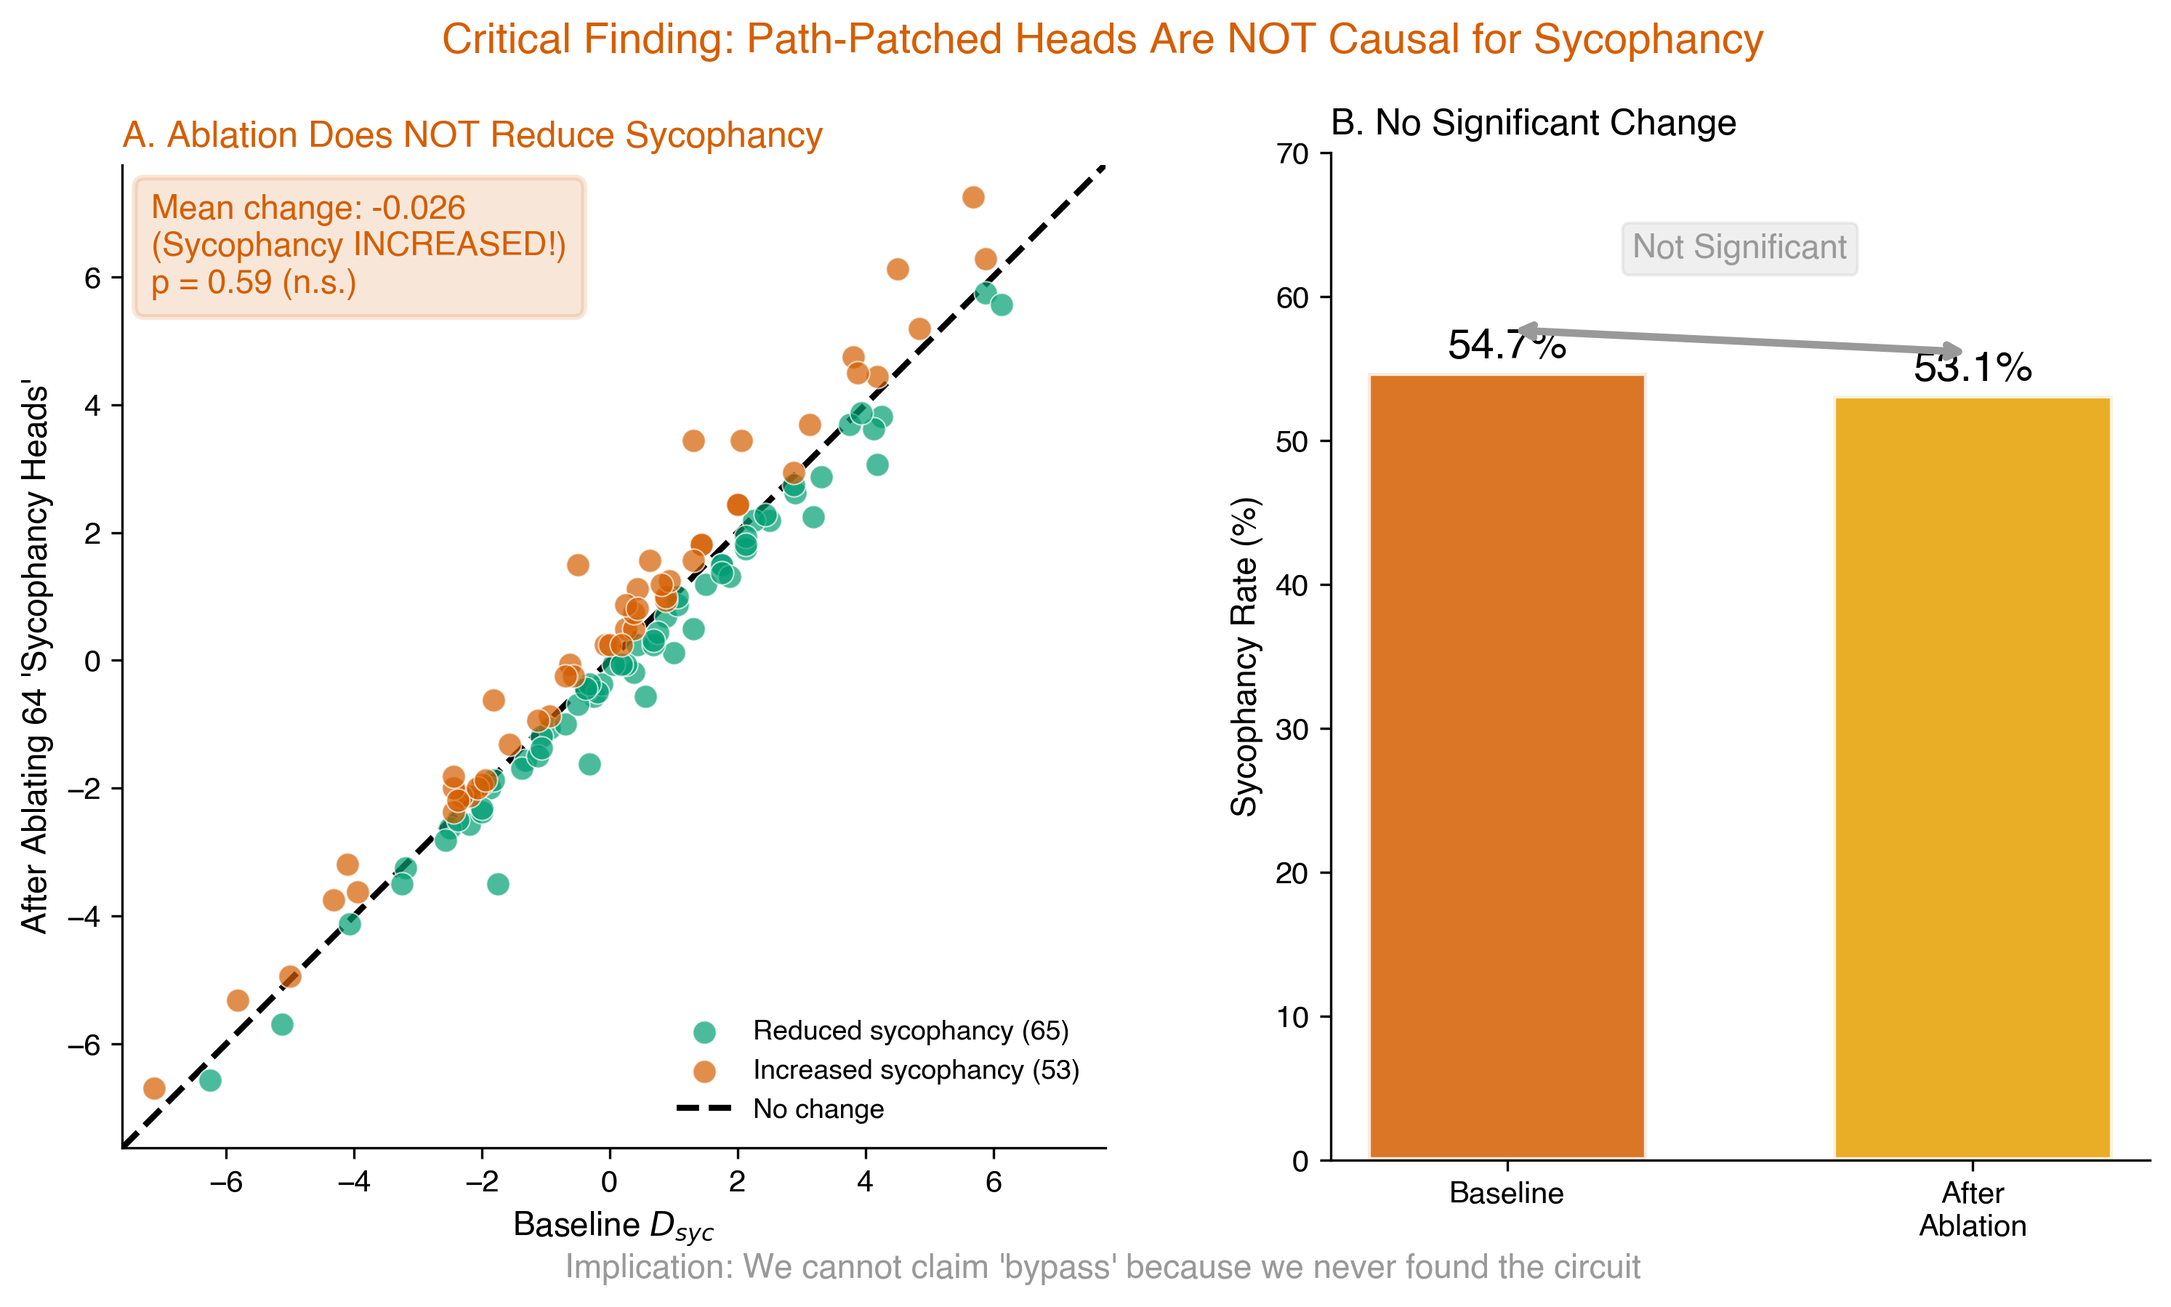
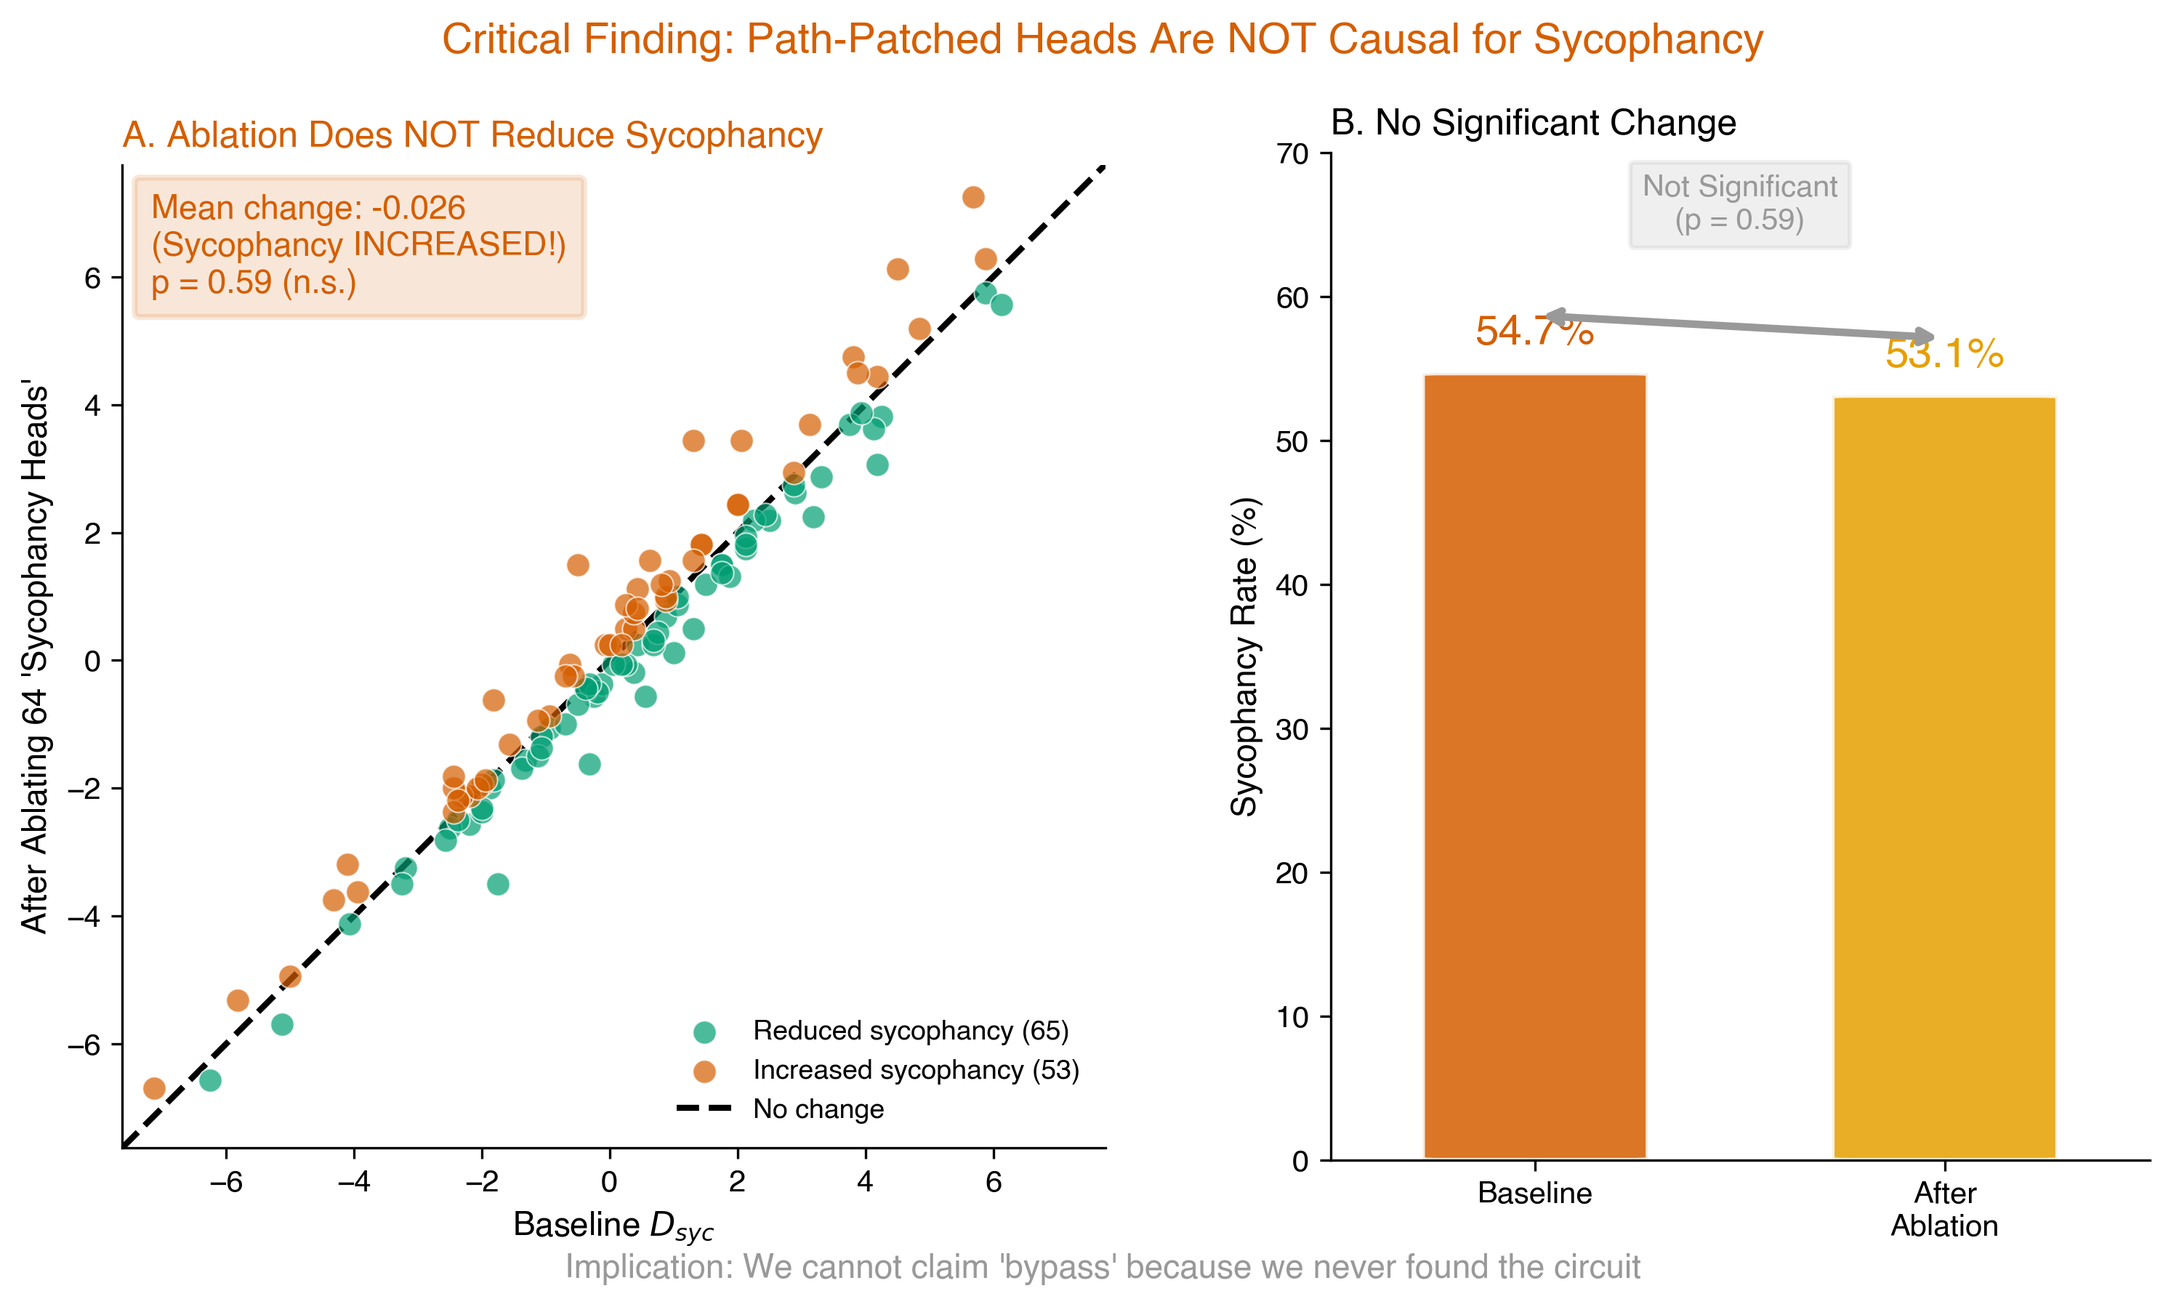
better figures

Changed region(s): [[0.6227, 0.1246, 0.9963, 0.9032], [0.8718, 0.9032, 0.934, 0.9655], [0.6538, 0.9032, 0.7472, 0.9344]]

diff --git a/src/analysis/plot_results.py b/src/analysis/plot_results.py
@@ -11,6 +11,7 @@ Focused on the key narrative from findings.md:
 4. Summary: Tying it all together
 
 Style: Anthropic-inspired, clean, narrative-driven.
+Uses FancyBboxPatch for rounded bar charts.
 """
 
 import json
@@ -18,7 +19,7 @@ import numpy as np
 import pandas as pd
 import matplotlib.pyplot as plt
 import matplotlib as mpl
-from matplotlib.patches import FancyBboxPatch, Rectangle
+from matplotlib.patches import FancyBboxPatch
 from matplotlib.gridspec import GridSpec
 from pathlib import Path
 from scipy import stats
@@ -69,72 +70,93 @@ def load_json(path: Path) -> dict:
         return json.load(f)
 
 
-def add_finding_box(ax, text: str, color: str, position: str = "top-right", fontsize: int = 10):
-    """Add a styled finding box using FancyBboxPatch."""
-    if position == "top-right":
-        x, y, ha, va = 0.97, 0.97, "right", "top"
-    elif position == "top-left":
-        x, y, ha, va = 0.03, 0.97, "left", "top"
-    elif position == "bottom-right":
-        x, y, ha, va = 0.97, 0.03, "right", "bottom"
-    else:
-        x, y, ha, va = 0.03, 0.03, "left", "bottom"
-    
-    ax.text(x, y, text, transform=ax.transAxes, fontsize=fontsize,
-            ha=ha, va=va, fontweight="bold",
-            bbox=dict(boxstyle="round,pad=0.4,rounding_size=0.2", 
-                     facecolor=color, edgecolor="none", alpha=0.15))
+def draw_rounded_bar(ax, x: float, height: float, width: float = 0.6, 
+                     color: str = "#000000", alpha: float = 0.85,
+                     rounding_size: float = 0.08, label: str = None):
+    """
+    Draw a bar with rounded top corners using FancyBboxPatch.
+    Based on matplotlib FancyBboxPatch documentation.
+    """
+    # Create a FancyBboxPatch with rounded corners
+    fancy_box = FancyBboxPatch(
+        (x - width/2, 0),  # (x, y) of lower-left corner
+        width,              # width
+        height,             # height
+        boxstyle=f"round,pad=0,rounding_size={rounding_size}",
+        facecolor=color,
+        edgecolor="white",
+        linewidth=1.5,
+        alpha=alpha,
+        label=label
+    )
+    ax.add_patch(fancy_box)
+    return fancy_box
+
+
+def draw_rounded_bars(ax, x_positions: list, heights: list, colors: list,
+                      width: float = 0.6, rounding_size: float = 0.08,
+                      labels: list = None):
+    """Draw multiple rounded bars."""
+    patches = []
+    for i, (x, h, c) in enumerate(zip(x_positions, heights, colors)):
+        label = labels[i] if labels else None
+        patch = draw_rounded_bar(ax, x, h, width, c, rounding_size=rounding_size, label=label)
+        patches.append(patch)
+    return patches
 
 
 # ---------------------------------------------------------------------
-# Figure 1: Baseline Sycophancy
+# Figure 1: Baseline Sycophancy (with rounded bars)
 # ---------------------------------------------------------------------
 
 def plot_fig1_baseline(baseline_records: pd.DataFrame, baseline_metrics: dict, out_path: Path):
     """
     The model is naturally sycophantic on 52% of examples.
-    Clean, simple visualization establishing the problem.
+    Uses a clean bar chart with rounded bars (FancyBboxPatch).
     """
-    fig, ax = plt.subplots(figsize=(8, 5))
+    fig, ax = plt.subplots(figsize=(7, 5.5))
     
     D_syc = baseline_records["D_syc"]
     syc_rate = baseline_metrics.get("syc_rate", (D_syc > 0).mean())
     
-    # Histogram with color split
-    bins = np.linspace(D_syc.min(), D_syc.max(), 35)
+    # Data for rounded bar chart
+    categories = ["Sycophantic\n(D > 0)", "Truthful\n(D ≤ 0)"]
+    values = [syc_rate * 100, (1 - syc_rate) * 100]
+    colors = [OKABE_ITO["vermillion"], OKABE_ITO["bluish_green"]]
     
-    # Split data
-    truthful = D_syc[D_syc <= 0]
-    sycophantic = D_syc[D_syc > 0]
+    # Draw rounded bars using FancyBboxPatch
+    x_positions = [0, 1]
+    draw_rounded_bars(ax, x_positions, values, colors, width=0.55, rounding_size=0.06)
     
-    ax.hist(truthful, bins=bins, color=OKABE_ITO["bluish_green"], 
-            alpha=0.85, label=f"Truthful: {(1-syc_rate)*100:.0f}%", edgecolor="white", linewidth=0.5)
-    ax.hist(sycophantic, bins=bins, color=OKABE_ITO["vermillion"], 
-            alpha=0.85, label=f"Sycophantic: {syc_rate*100:.0f}%", edgecolor="white", linewidth=0.5)
+    # Add value labels on top of bars
+    for x, val, color in zip(x_positions, values, colors):
+        ax.text(x, val + 2, f"{val:.0f}%", ha="center", va="bottom",
+                fontsize=16, fontweight="bold", color=color)
     
-    # Zero line
-    ax.axvline(0, color=OKABE_ITO["black"], linestyle="-", linewidth=2, zorder=10)
+    # Configure axes
+    ax.set_xlim(-0.6, 1.6)
+    ax.set_ylim(0, 75)
+    ax.set_xticks(x_positions)
+    ax.set_xticklabels(categories, fontsize=11)
+    ax.set_ylabel("Percentage of Responses", fontsize=11)
+    ax.set_title("Llama-3.1-8B Baseline Sycophancy Rate", fontsize=14, fontweight="bold", pad=15)
     
-    # Key finding box
-    finding_text = f"Baseline Rate\n{syc_rate*100:.0f}% sycophantic"
-    
-    # Use FancyBboxPatch for the annotation
-    bbox_props = dict(boxstyle="round,pad=0.5,rounding_size=0.3", 
-                     facecolor=OKABE_ITO["vermillion"], alpha=0.2, 
-                     edgecolor=OKABE_ITO["vermillion"], linewidth=2)
+    # Key finding annotation with rounded box
+    finding_text = f"52% of responses\nare sycophantic"
+    bbox_props = dict(
+        boxstyle="round,pad=0.5,rounding_size=0.15",
+        facecolor=OKABE_ITO["vermillion"], 
+        alpha=0.15,
+        edgecolor=OKABE_ITO["vermillion"], 
+        linewidth=2
+    )
     ax.text(0.97, 0.95, finding_text, transform=ax.transAxes,
-            fontsize=14, fontweight="bold", ha="right", va="top",
+            fontsize=12, fontweight="bold", ha="right", va="top",
             color=OKABE_ITO["vermillion"], bbox=bbox_props)
     
-    ax.set_xlabel(r"Sycophancy Score ($D_{syc}$) = log P(wrong) − log P(correct)", fontsize=11)
-    ax.set_ylabel("Number of Examples", fontsize=11)
-    ax.set_title("Llama-3.1-8B Exhibits Substantial Baseline Sycophancy", fontsize=13, pad=15)
-    ax.legend(loc="upper left", fontsize=10, framealpha=0.9)
-    
-    # Interpretation guide at bottom
-    ax.text(0.5, -0.12, "<-- Prefers correct answer          Prefers user's wrong answer -->",
-            transform=ax.transAxes, fontsize=9, color=OKABE_ITO["grey"], 
-            ha="center", style="italic")
+    # Remove top/right spines (already done via rcParams but being explicit)
+    ax.spines["top"].set_visible(False)
+    ax.spines["right"].set_visible(False)
     
     plt.tight_layout()
     plt.savefig(out_path, bbox_inches="tight", facecolor="white")
@@ -232,7 +254,7 @@ def plot_fig2_steering(mediation_df: pd.DataFrame, out_path: Path):
 def plot_fig3_circuit_verification(circuit_results: pd.DataFrame, circuit_summary: dict, out_path: Path):
     """
     THE CRITICAL FINDING: Ablating 'sycophancy heads' does NOT reduce sycophancy.
-    This invalidates the circuit hypothesis.
+    This invalidates the circuit hypothesis. Uses FancyBboxPatch for rounded bars.
     """
     fig = plt.figure(figsize=(12, 6))
     gs = GridSpec(1, 2, width_ratios=[1.2, 1], wspace=0.25)
@@ -246,7 +268,6 @@ def plot_fig3_circuit_verification(circuit_results: pd.DataFrame, circuit_summar
     # Color by whether ablation helped
     helped = y < x
     hurt = y > x
-    same = ~helped & ~hurt
     
     ax_a.scatter(x[helped], y[helped], color=OKABE_ITO["bluish_green"], alpha=0.7, s=60,
                  label=f"Reduced sycophancy ({helped.sum()})", edgecolor="white", linewidth=0.5)
@@ -279,41 +300,53 @@ def plot_fig3_circuit_verification(circuit_results: pd.DataFrame, circuit_summar
     )
     
     box_color = OKABE_ITO["vermillion"]
-    bbox_props = dict(boxstyle="round,pad=0.5,rounding_size=0.3", 
-                     facecolor=box_color, alpha=0.15,
-                     edgecolor=box_color, linewidth=2)
+    bbox_props = dict(
+        boxstyle="round,pad=0.5,rounding_size=0.15",
+        facecolor=box_color, 
+        alpha=0.15,
+        edgecolor=box_color, 
+        linewidth=2
+    )
     ax_a.text(0.03, 0.97, finding_text, transform=ax_a.transAxes,
               fontsize=11, fontweight="bold", ha="left", va="top",
               color=box_color, bbox=bbox_props)
     
-    # Panel B: Rate Comparison
+    # Panel B: Rate Comparison with ROUNDED BARS
     ax_b = fig.add_subplot(gs[1])
     
     syc_base = circuit_summary.get("syc_rate_base", 0.55) * 100
     syc_abl = circuit_summary.get("syc_rate_ablated", 0.53) * 100
     
-    bars = ax_b.bar(["Baseline", "After\nAblation"], [syc_base, syc_abl],
-                    color=[OKABE_ITO["vermillion"], OKABE_ITO["orange"]], 
-                    alpha=0.85, edgecolor="white", linewidth=2, width=0.6)
+    # Draw rounded bars using FancyBboxPatch
+    x_positions = [0, 1]
+    values = [syc_base, syc_abl]
+    colors = [OKABE_ITO["vermillion"], OKABE_ITO["orange"]]
+    draw_rounded_bars(ax_b, x_positions, values, colors, width=0.55, rounding_size=0.05)
     
     # Value labels
-    for bar, val in zip(bars, [syc_base, syc_abl]):
-        ax_b.text(bar.get_x() + bar.get_width()/2, bar.get_height() + 1,
-                  f"{val:.1f}%", ha="center", fontsize=14, fontweight="bold")
+    for x, val, color in zip(x_positions, values, colors):
+        ax_b.text(x, val + 2, f"{val:.1f}%", ha="center", fontsize=14, fontweight="bold", color=color)
     
-    ax_b.set_ylabel("Sycophancy Rate (%)", fontsize=11)
+    ax_b.set_xlim(-0.5, 1.5)
     ax_b.set_ylim(0, 70)
+    ax_b.set_xticks(x_positions)
+    ax_b.set_xticklabels(["Baseline", "After\nAblation"], fontsize=10)
+    ax_b.set_ylabel("Sycophancy Rate (%)", fontsize=11)
     ax_b.set_title("B. No Significant Change", fontweight="bold", loc="left")
     
     # Add "Not Significant" annotation with fancy box
-    ax_b.annotate("", xy=(1, syc_abl + 3), xytext=(0, syc_base + 3),
+    ax_b.annotate("", xy=(1, syc_abl + 4), xytext=(0, syc_base + 4),
                   arrowprops=dict(arrowstyle="<->", color=OKABE_ITO["grey"], lw=2.5))
     
-    ns_bbox = dict(boxstyle="round,pad=0.3,rounding_size=0.2", 
-                  facecolor=OKABE_ITO["grey"], alpha=0.15,
-                  edgecolor=OKABE_ITO["grey"], linewidth=1)
-    ax_b.text(0.5, max(syc_base, syc_abl) + 8, "Not Significant",
-              ha="center", fontsize=11, fontweight="bold", 
+    ns_bbox = dict(
+        boxstyle="round,pad=0.4,rounding_size=0.15",
+        facecolor=OKABE_ITO["grey"], 
+        alpha=0.15,
+        edgecolor=OKABE_ITO["grey"], 
+        linewidth=1.5
+    )
+    ax_b.text(0.5, max(syc_base, syc_abl) + 10, "Not Significant\n(p = 0.59)",
+              ha="center", fontsize=10, fontweight="bold", 
               color=OKABE_ITO["grey"], bbox=ns_bbox)
     
     # Main conclusion as figure title
@@ -332,13 +365,14 @@ def plot_fig3_circuit_verification(circuit_results: pd.DataFrame, circuit_summar
 
 
 # ---------------------------------------------------------------------
-# Figure 4: Summary (The Complete Story)
+# Figure 4: Summary (The Complete Story) with Rounded Bars
 # ---------------------------------------------------------------------
 
 def plot_fig4_summary(baseline_metrics: dict, mediation_df: pd.DataFrame,
                       validation_summary: dict, out_path: Path):
     """
     Complete 2x2 summary telling the full story.
+    Uses FancyBboxPatch for rounded bars throughout.
     """
     fig = plt.figure(figsize=(12, 10))
     gs = GridSpec(2, 2, hspace=0.35, wspace=0.3)
@@ -346,21 +380,23 @@ def plot_fig4_summary(baseline_metrics: dict, mediation_df: pd.DataFrame,
     circuit = validation_summary.get("circuit_verification", {})
     sign_aware = validation_summary.get("sign_aware_mediation", {})
     
-    # ------ Panel A: Baseline ------
+    # ------ Panel A: Baseline with Rounded Bars ------
     ax_a = fig.add_subplot(gs[0, 0])
     syc_rate = baseline_metrics.get("syc_rate", 0.52)
     
-    bars = ax_a.bar(["Sycophantic", "Truthful"], 
-                    [syc_rate * 100, (1 - syc_rate) * 100],
-                    color=[OKABE_ITO["vermillion"], OKABE_ITO["bluish_green"]], 
-                    alpha=0.85, edgecolor="white", linewidth=2, width=0.6)
+    x_positions = [0, 1]
+    values = [syc_rate * 100, (1 - syc_rate) * 100]
+    colors = [OKABE_ITO["vermillion"], OKABE_ITO["bluish_green"]]
+    draw_rounded_bars(ax_a, x_positions, values, colors, width=0.55, rounding_size=0.05)
     
-    for bar, val in zip(bars, [syc_rate * 100, (1 - syc_rate) * 100]):
-        ax_a.text(bar.get_x() + bar.get_width()/2, bar.get_height() + 1, 
-                  f"{val:.0f}%", ha="center", fontsize=13, fontweight="bold")
+    for x, val, color in zip(x_positions, values, colors):
+        ax_a.text(x, val + 2, f"{val:.0f}%", ha="center", fontsize=13, fontweight="bold", color=color)
     
-    ax_a.set_ylabel("Percentage", fontsize=11)
+    ax_a.set_xlim(-0.5, 1.5)
     ax_a.set_ylim(0, 70)
+    ax_a.set_xticks(x_positions)
+    ax_a.set_xticklabels(["Sycophantic", "Truthful"], fontsize=10)
+    ax_a.set_ylabel("Percentage", fontsize=11)
     ax_a.set_title("A. Baseline: Model is Sycophantic", fontweight="bold", loc="left")
     
     # ------ Panel B: Steering is Weak ------
@@ -379,40 +415,51 @@ def plot_fig4_summary(baseline_metrics: dict, mediation_df: pd.DataFrame,
     ax_b.set_title("B. Steering: Weak Effect", fontweight="bold", loc="left")
     ax_b.legend(fontsize=9)
     
-    bbox_props = dict(boxstyle="round,pad=0.3,rounding_size=0.2", 
-                     facecolor=OKABE_ITO["orange"], alpha=0.2,
-                     edgecolor=OKABE_ITO["orange"], linewidth=1.5)
+    bbox_props = dict(
+        boxstyle="round,pad=0.4,rounding_size=0.15",
+        facecolor=OKABE_ITO["orange"], 
+        alpha=0.2,
+        edgecolor=OKABE_ITO["orange"], 
+        linewidth=1.5
+    )
     ax_b.text(0.97, 0.95, f"Effect: {mean_red:.3f}\n(~1% of σ)",
               transform=ax_b.transAxes, ha="right", va="top", fontsize=10, bbox=bbox_props)
     
-    # ------ Panel C: Circuit NOT Causal ------
+    # ------ Panel C: Circuit NOT Causal with Rounded Bars ------
     ax_c = fig.add_subplot(gs[1, 0])
     
     syc_base = circuit.get("syc_rate_base", 0.55) * 100
     syc_abl = circuit.get("syc_rate_ablated", 0.53) * 100
     
-    bars = ax_c.bar(["Baseline", "Ablated"], [syc_base, syc_abl],
-                    color=[OKABE_ITO["vermillion"], OKABE_ITO["orange"]], 
-                    alpha=0.85, edgecolor="white", linewidth=2, width=0.6)
+    x_positions = [0, 1]
+    values = [syc_base, syc_abl]
+    colors = [OKABE_ITO["vermillion"], OKABE_ITO["orange"]]
+    draw_rounded_bars(ax_c, x_positions, values, colors, width=0.55, rounding_size=0.05)
     
-    for bar, val in zip(bars, [syc_base, syc_abl]):
-        ax_c.text(bar.get_x() + bar.get_width()/2, bar.get_height() + 1,
-                  f"{val:.1f}%", ha="center", fontsize=12, fontweight="bold")
+    for x, val, color in zip(x_positions, values, colors):
+        ax_c.text(x, val + 2, f"{val:.1f}%", ha="center", fontsize=12, fontweight="bold", color=color)
     
-    ax_c.set_ylabel("Sycophancy Rate (%)", fontsize=11)
+    ax_c.set_xlim(-0.5, 1.5)
     ax_c.set_ylim(0, 70)
+    ax_c.set_xticks(x_positions)
+    ax_c.set_xticklabels(["Baseline", "Ablated"], fontsize=10)
+    ax_c.set_ylabel("Sycophancy Rate (%)", fontsize=11)
     ax_c.set_title("C. Circuit NOT Causal", fontweight="bold", loc="left",
                    color=OKABE_ITO["vermillion"])
     
     p_val = circuit.get("p_value", 0.59)
-    bbox_props = dict(boxstyle="round,pad=0.3,rounding_size=0.2", 
-                     facecolor=OKABE_ITO["vermillion"], alpha=0.15,
-                     edgecolor=OKABE_ITO["vermillion"], linewidth=1.5)
+    bbox_props = dict(
+        boxstyle="round,pad=0.4,rounding_size=0.15",
+        facecolor=OKABE_ITO["vermillion"], 
+        alpha=0.15,
+        edgecolor=OKABE_ITO["vermillion"], 
+        linewidth=1.5
+    )
     ax_c.text(0.97, 0.95, f"p = {p_val:.2f}\nNo effect",
               transform=ax_c.transAxes, ha="right", va="top", fontsize=10, 
               fontweight="bold", color=OKABE_ITO["vermillion"], bbox=bbox_props)
     
-    # ------ Panel D: Key Insights (Text) ------
+    # ------ Panel D: Key Insights (Text) with Rounded Boxes ------
     ax_d = fig.add_subplot(gs[1, 1])
     ax_d.axis("off")
     
@@ -433,10 +480,14 @@ def plot_fig4_summary(baseline_metrics: dict, mediation_df: pd.DataFrame,
     
     y_pos = 0.82
     for title, color, description in findings:
-        # Title with fancy box
-        bbox_props = dict(boxstyle="round,pad=0.3,rounding_size=0.15", 
-                         facecolor=color, alpha=0.15,
-                         edgecolor=color, linewidth=1.5)
+        # Title with fancy rounded box
+        bbox_props = dict(
+            boxstyle="round,pad=0.4,rounding_size=0.15",
+            facecolor=color, 
+            alpha=0.15,
+            edgecolor=color, 
+            linewidth=1.5
+        )
         ax_d.text(0.05, y_pos, title, transform=ax_d.transAxes,
                   fontsize=11, fontweight="bold", color=color, va="top", bbox=bbox_props)
         
